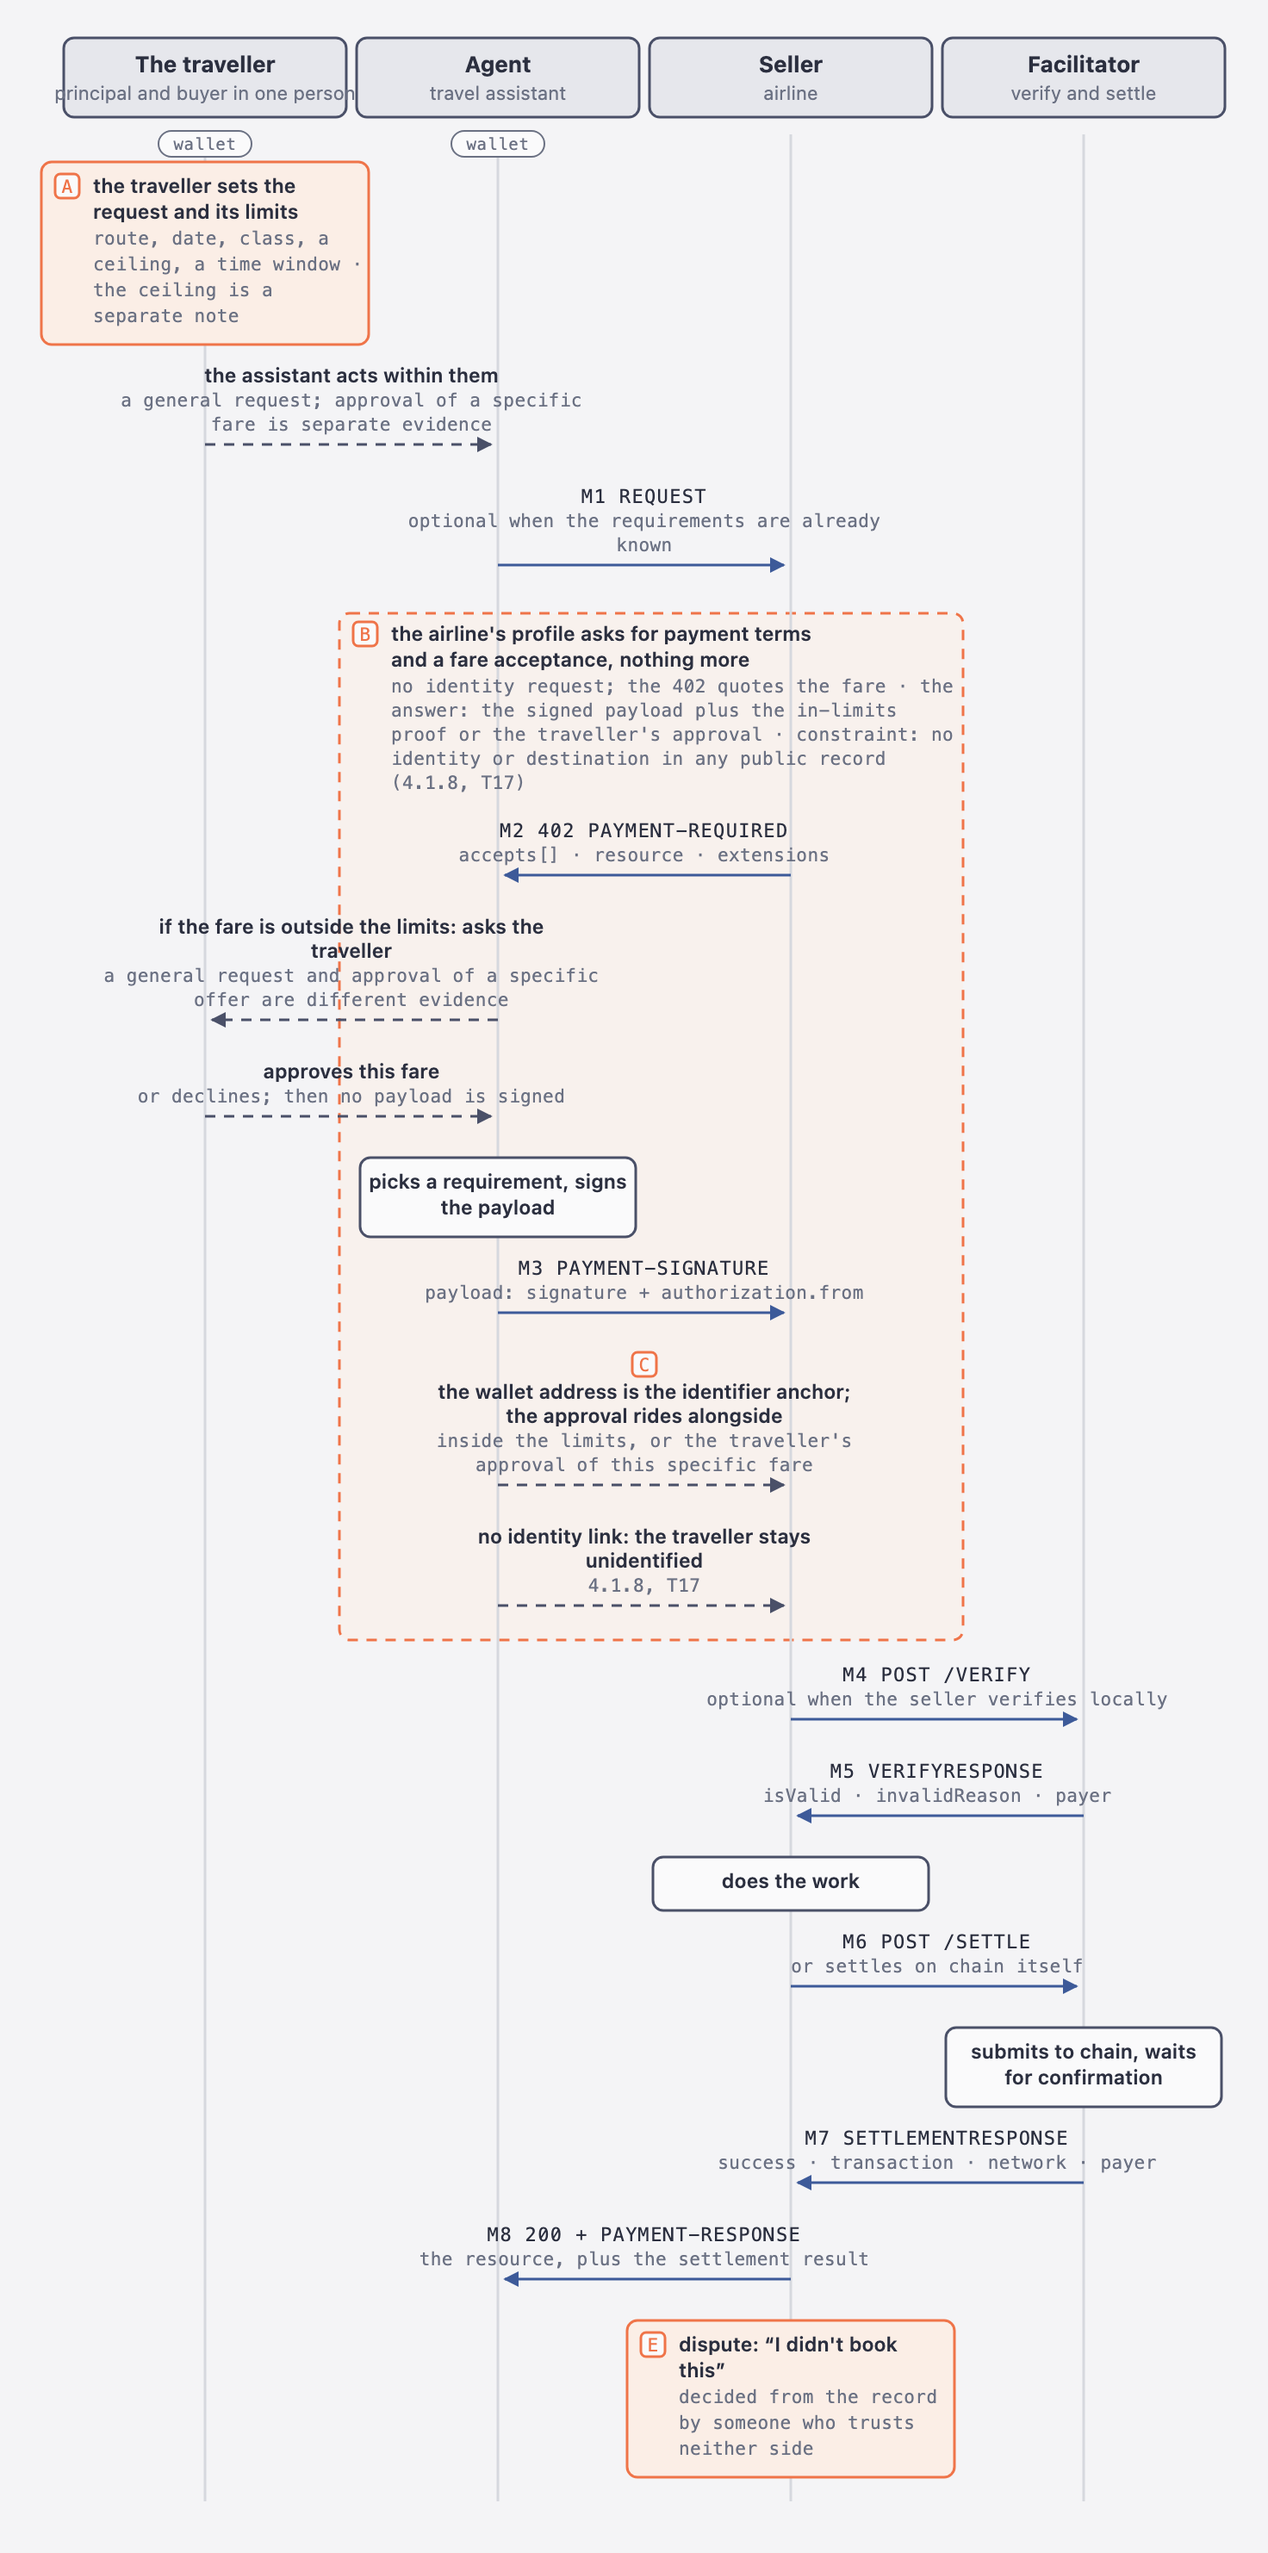
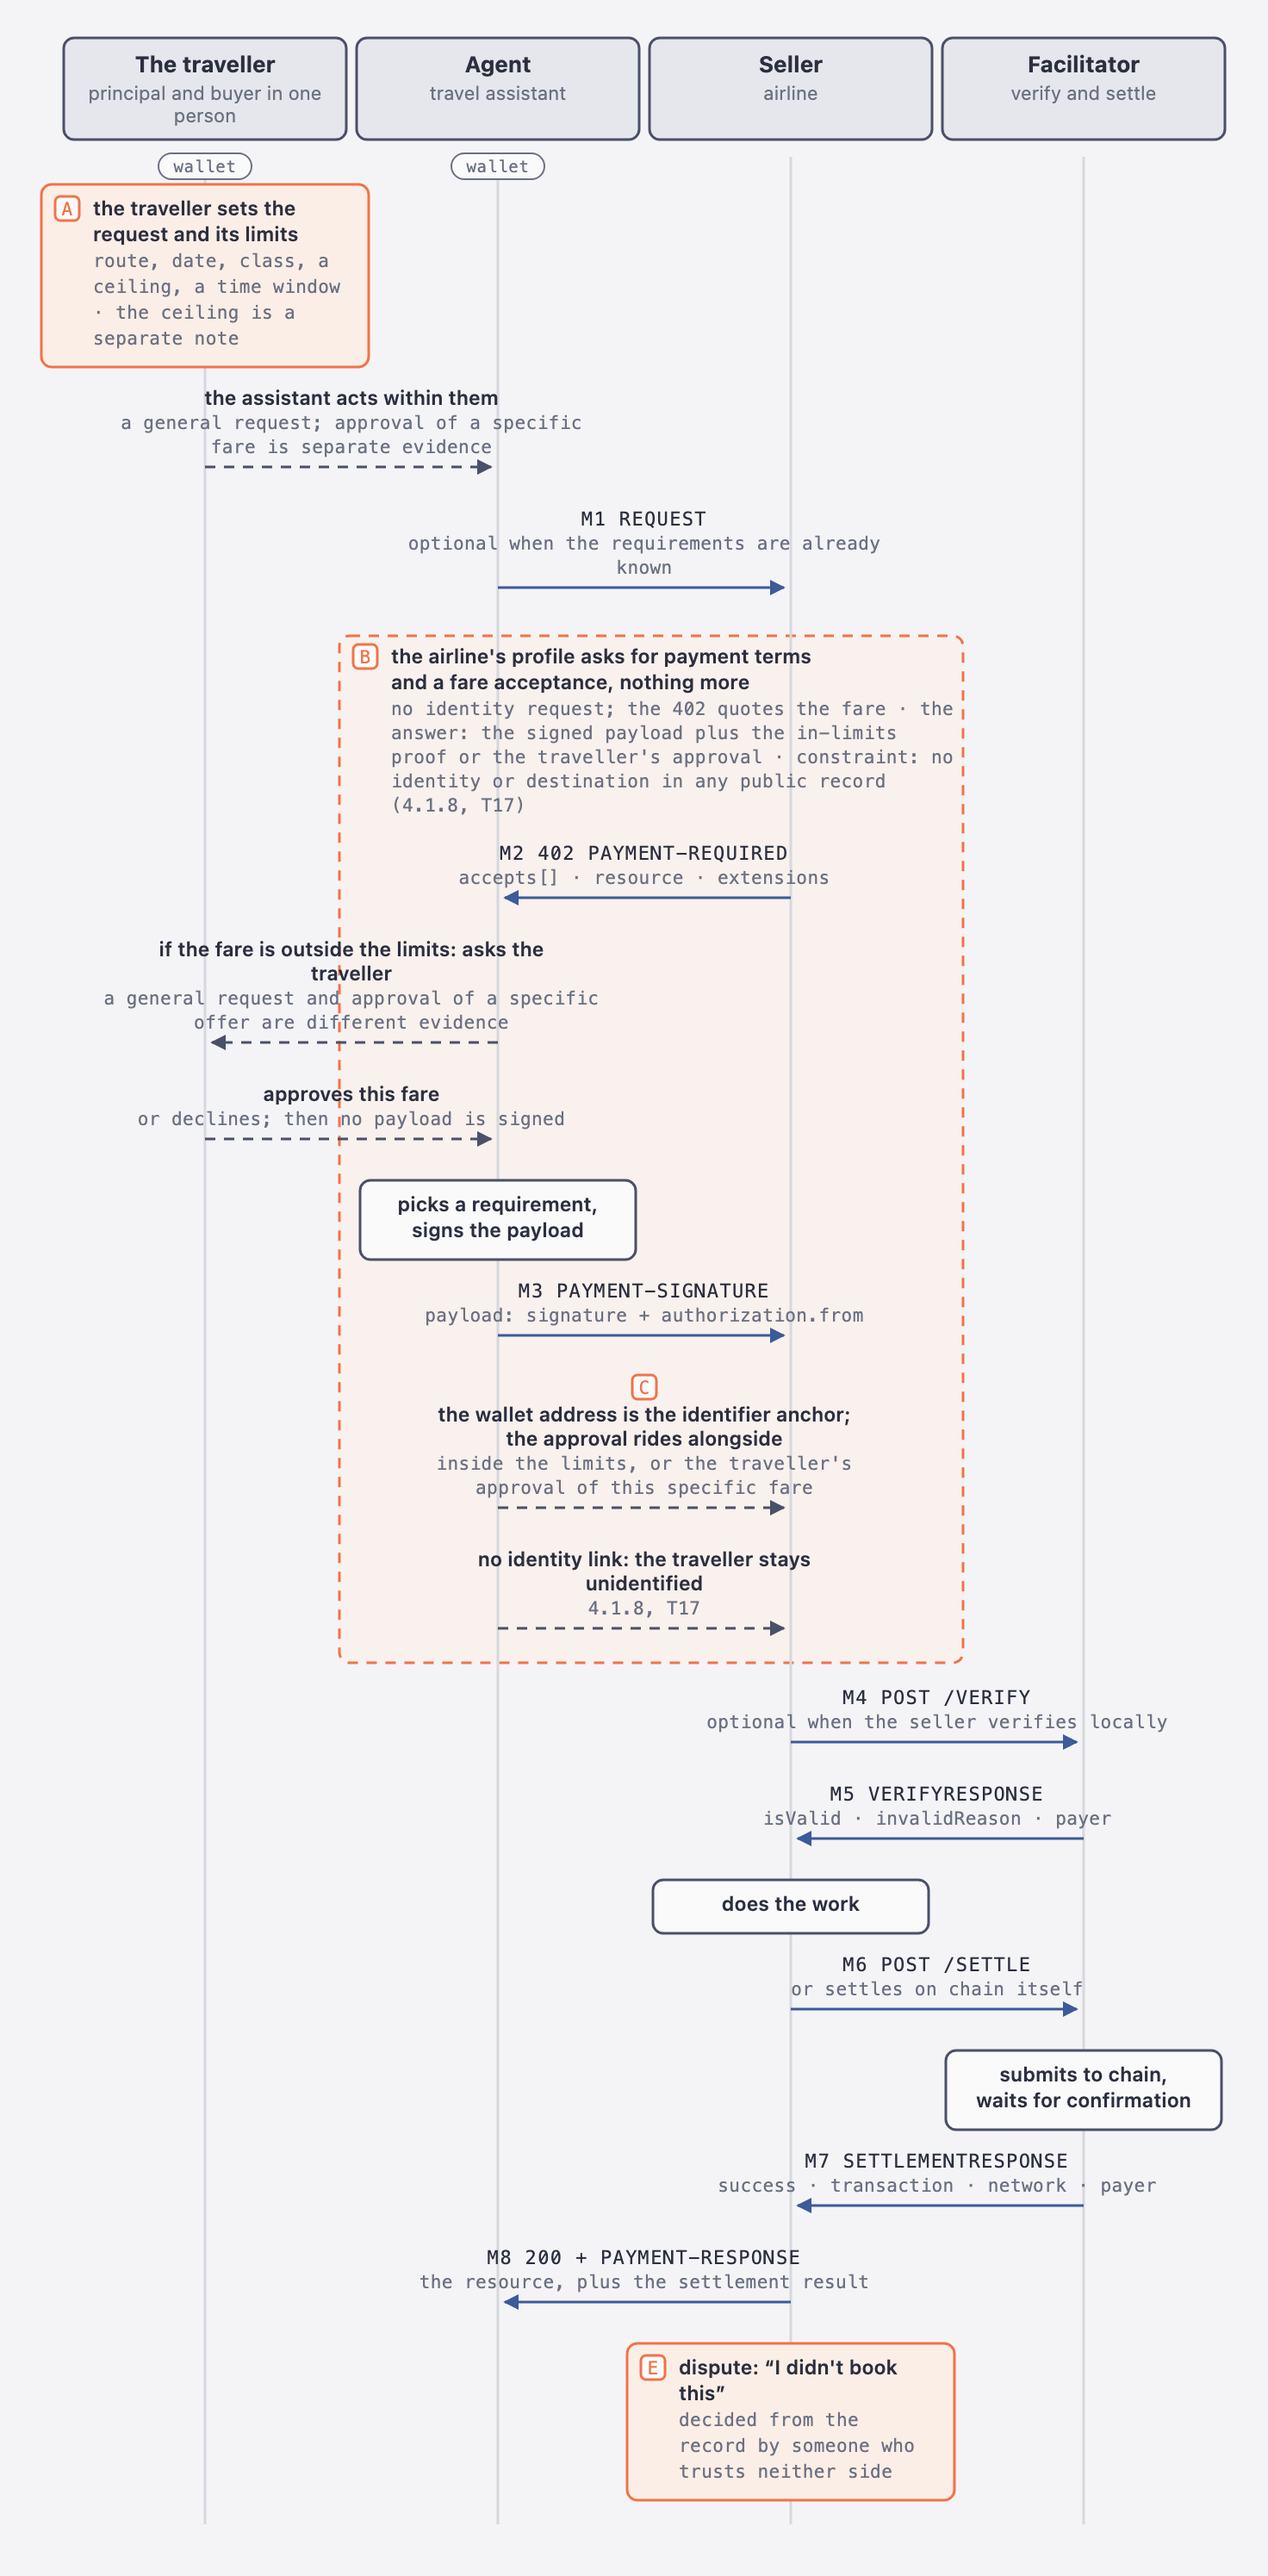
Wrap board text inside its boxes and re-export the PNGs
Lane-head role text ran past the lane box on K0, 1a, 1d and 1.2, and
lines in work and note boxes ran past the box on 1.2 and 1.3 (11 lines
in all, measured in headless Chrome).

- A role longer than the lane head wraps to a second line; the head and
  everything under it move down to fit.
- Labels and subs in work, slot and note boxes wrap at widths that fit
  the box.

All seven boards re-exported. verify_arrows.py still reports 0 failures.

diff --git a/boards/build_family.py b/boards/build_family.py
@@ -16,6 +16,7 @@ import json, html, sys, os, copy, re, subprocess, pathlib
 
 OUT = os.path.dirname(os.path.abspath(__file__))
 SPACING, X0, TOP = 170, 85, 54
+ROLE_N = 28  # characters of role text that fit the 164px lane head
 STYLE = "moitie" if "--style" in sys.argv and sys.argv[sys.argv.index("--style")+1] == "moitie" else "bare"
 RX = 6 if STYLE == "bare" else 0
 
@@ -75,7 +76,11 @@ def render_board(bid, lanes, steps):
     keys = [l[0] for l in lanes]
     lane_x = lambda k: X0 + keys.index(k) * SPACING
     W = X0 + (len(lanes) - 1) * SPACING + 85
-    y = TOP + 34
+    # a role longer than the lane head wraps to a second line; the head and everything under it move down to fit
+    roles = {l[0]: wrap(l[2], ROLE_N) for l in lanes}
+    grow = 13 * (max(len(r) for r in roles.values()) - 1)
+    top = TOP + grow
+    y = top + 34
     parts = []
     regions = []
     for st in steps:
@@ -127,10 +132,10 @@ def render_board(bid, lanes, steps):
         else:
             x = lane_x(st["lane"])
             w = SPACING + 20 if k == "slot" else SPACING - 10
-            n = 24 if k == "slot" else 26
-            wrapped = [(ln, "lbl") for ln in wrap(st["label"], n)]
+            n_lbl, n_sub = (23, 22) if k == "slot" else (22, 23)
+            wrapped = [(ln, "lbl") for ln in wrap(st["label"], n_lbl)]
             if st.get("sub"):
-                wrapped += [(ln, "sub") for ln in wrap(st["sub"], n)]
+                wrapped += [(ln, "sub") for ln in wrap(st["sub"], n_sub)]
             h = 12 + 15 * len(wrapped) + 4
             if k == "slot":
                 parts.append(f'<rect x="{x - w/2}" y="{y-10}" width="{w}" height="{h}" rx="{RX}" class="slot"/>')
@@ -156,21 +161,22 @@ def render_board(bid, lanes, steps):
                f'<marker id="{bid}-i" viewBox="0 0 10 10" refX="9" refY="5" markerWidth="6" markerHeight="6" orient="auto-start-reverse"><path d="M0 0L10 5L0 10z" class="h-ident"/></marker></defs>')
     sx = lane_x("seller")
     out.append(f'<rect x="{sx-58}" y="0" width="116" height="{H}" class="tint"/>')
-    out.append(f'<line x1="0" x2="{W}" y1="{TOP}" y2="{TOP}" class="counter"/>')
+    out.append(f'<line x1="0" x2="{W}" y1="{top}" y2="{top}" class="counter"/>')
     for rg in regions:
         out.append(f'<rect x="{rg["x0"]}" y="{rg["y0"]}" width="{rg["x1"] - rg["x0"]}" height="{rg["y1"] - rg["y0"]}" rx="{RX}" class="region"/>')
     for lane in lanes:
         key, name, role = lane[0], lane[1], lane[2]
         wallet = len(lane) > 3 and lane[3]
         x = lane_x(key)
-        out.append(f'<line x1="{x}" x2="{x}" y1="{TOP+8}" y2="{H-14}" class="life"/>')
+        out.append(f'<line x1="{x}" x2="{x}" y1="{top+8}" y2="{H-14}" class="life"/>')
         if wallet:
-            out.append(f'<rect x="{x-27}" y="{TOP+6}" width="54" height="15" rx="7.5" class="wallet"/>')
-            out.append(f'<text x="{x}" y="{TOP+17}" text-anchor="middle" class="walletl">wallet</text>')
+            out.append(f'<rect x="{x-27}" y="{top+6}" width="54" height="15" rx="7.5" class="wallet"/>')
+            out.append(f'<text x="{x}" y="{top+17}" text-anchor="middle" class="walletl">wallet</text>')
         if STYLE == "bare":
-            out.append(f'<rect x="{x-82}" y="6" width="164" height="46" rx="{RX}" class="lanebox"/>')
+            out.append(f'<rect x="{x-82}" y="6" width="164" height="{46 + grow}" rx="{RX}" class="lanebox"/>')
             out.append(f'<text x="{x}" y="26" text-anchor="middle" class="lane">{esc(name)}</text>')
-            out.append(f'<text x="{x}" y="42" text-anchor="middle" class="role">{esc(role)}</text>')
+            for i, ln in enumerate(roles[key]):
+                out.append(f'<text x="{x}" y="{42 + 13*i}" text-anchor="middle" class="role">{esc(ln)}</text>')
         else:
             out.append(f'<text x="{x}" y="22" text-anchor="middle" class="lane">{esc(name)}</text>')
             out.append(f'<text x="{x}" y="39" text-anchor="middle" class="role serif">{esc(role)}</text>')
